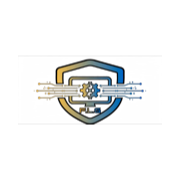
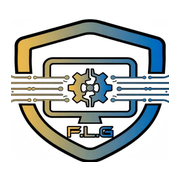
app

diff --git a/src/App.tsx b/src/App.tsx
@@ -18,6 +18,7 @@ import {
   Settings2,
   Shield,
   SignalLow,
+  Smartphone,
   Timer,
   Wifi,
   X,
@@ -136,7 +137,13 @@ const navItems: NavItem[] = [
 
 const App = () => {
   const launchedStandalone = isStandaloneMode();
-  const isMobileDevice = /Android|iPhone|iPad|iPod|Windows Phone/i.test(navigator.userAgent);
+  const ua = window.navigator.userAgent;
+  const isMobileDevice = /Android|iPhone|iPad|iPod|Windows Phone/i.test(ua);
+  const isIos =
+    /iPhone|iPad|iPod/i.test(ua) || (navigator.platform === 'MacIntel' && navigator.maxTouchPoints > 1);
+  const isFirefox = /Firefox|FxiOS/i.test(ua);
+  const isMacSafari =
+    /Macintosh/i.test(ua) && /Safari/i.test(ua) && !/Chrome|Chromium|Edg|OPR|Firefox/i.test(ua);
   const [showLanding, setShowLanding] = useState(!launchedStandalone);
   const [loading, setLoading] = useState(launchedStandalone);
   const [loadingStep, setLoadingStep] = useState(0);
@@ -156,6 +163,7 @@ const App = () => {
   const [installed, setInstalled] = useState(false);
   const [online, setOnline] = useState(navigator.onLine);
   const [standalone, setStandalone] = useState(isStandaloneMode);
+  const [installGuideOpen, setInstallGuideOpen] = useState(false);
   const [aboutOpen, setAboutOpen] = useState(false);
   const [authOpen, setAuthOpen] = useState(false);
 
@@ -285,31 +293,24 @@ const App = () => {
   }, [launchedStandalone]);
 
   const installApp = async () => {
-    if (standalone || installed) {
-      setToast(
-        'FIBERLINKGUARD is already installed on this device — open it from your apps or Start menu.'
-      );
+    if (standalone) {
+      setToast('FIBERLINKGUARD is already running as the installed app.');
       return;
     }
     if (!installPrompt) {
-      setToast(
-        'Your browser controls install. Click the install icon in the address bar, or open the menu and choose Install app.'
-      );
+      setInstallGuideOpen(true);
       return;
     }
     try {
       await installPrompt.prompt();
       const choice = await installPrompt.userChoice;
       if (choice.outcome === 'accepted') {
-        setInstalled(true);
-        setToast('Installation accepted. FIBERLINKGUARD is installed.');
+        setToast('Installing FIBERLINKGUARD — the app icon will appear on your device.');
       } else {
-        setToast('Installation cancelled; you can install FIBERLINKGUARD later.');
+        setToast('Installation cancelled; you can install FIBERLINKGUARD any time.');
       }
     } catch {
-      setToast(
-        'Your browser controls install. Click the install icon in the address bar, or open the menu and choose Install app.'
-      );
+      setInstallGuideOpen(true);
       return;
     } finally {
       setInstallPrompt(null);
@@ -377,6 +378,104 @@ const App = () => {
         </div>
   ) : null;
 
+  const installSteps = isIos ? (
+    <div className="install-steps">
+      <p>
+        <strong>On iPhone or iPad — use Safari</strong>
+      </p>
+      <ol>
+        <li>Open this link in Safari.</li>
+        <li>
+          Tap the <strong>Share</strong> button.
+        </li>
+        <li>
+          Choose <strong>Add to Home Screen</strong>.
+        </li>
+        <li>
+          Turn on <strong>Open as Web App</strong> and tap <strong>Add</strong>.
+        </li>
+      </ol>
+    </div>
+  ) : isMacSafari ? (
+    <div className="install-steps">
+      <p>
+        <strong>On this Mac — use Safari</strong>
+      </p>
+      <ol>
+        <li>Open this link in Safari.</li>
+        <li>
+          From the menu bar choose <strong>File → Add to Dock</strong>.
+        </li>
+        <li>
+          Click <strong>Add</strong> — FIBERLINKGUARD appears in Launchpad.
+        </li>
+      </ol>
+    </div>
+  ) : isFirefox ? (
+    <div className="install-steps">
+      <p>
+        <strong>Firefox cannot install web apps as apps.</strong>
+      </p>
+      <ol>
+        <li>Open this link in Chrome or Edge (Safari on a Mac).</li>
+        <li>
+          Use that browser&apos;s <strong>Install</strong> option.
+        </li>
+      </ol>
+    </div>
+  ) : (
+    <div className="install-steps">
+      <p>
+        <strong>In Chrome or Edge</strong>
+      </p>
+      <ol>
+        <li>
+          Open this link in <strong>Chrome</strong> or <strong>Edge</strong>.
+        </li>
+        <li>
+          Click the <strong>install icon</strong> in the address bar, or open the{' '}
+          <strong>⋮ / ⋯ menu</strong>.
+        </li>
+        <li>
+          Choose <strong>Install app</strong> and confirm.
+        </li>
+      </ol>
+    </div>
+  );
+
+  const installGuideEl = installGuideOpen ? (
+    <div
+      className="install-guide-backdrop"
+      role="presentation"
+      onClick={() => setInstallGuideOpen(false)}
+    >
+      <section
+        className="install-guide-dialog"
+        role="dialog"
+        aria-modal="true"
+        aria-labelledby="install-guide-title"
+        onClick={(e) => e.stopPropagation()}
+      >
+        <button
+          className="install-guide-close icon-button"
+          aria-label="Close install instructions"
+          onClick={() => setInstallGuideOpen(false)}
+        >
+          <X size={18} />
+        </button>
+        <div className="install-guide-symbol">
+          <Smartphone size={25} />
+        </div>
+        <p className="eyebrow">FIBERLINKGUARD / INSTALLATION</p>
+        <h2 id="install-guide-title">Install FIBERLINKGUARD</h2>
+        {installSteps}
+        <button className="primary-button full-button" onClick={() => setInstallGuideOpen(false)}>
+          Got it
+        </button>
+      </section>
+    </div>
+  ) : null;
+
   if (showLanding) {
     return (
       <>
@@ -387,6 +486,7 @@ const App = () => {
           standalone={standalone}
         />
         {toastEl}
+        {installGuideEl}
       </>
     );
   }
@@ -487,10 +587,10 @@ const App = () => {
               <span className={online ? 'online-dot' : 'offline-dot'} />
               <span>{online ? 'Online ready' : 'Offline mode'}</span>
             </div>
-            {!(installed || standalone) && (
+            {!standalone && (
               <button className="install-app-button" onClick={installApp}>
                 <Download size={15} />
-                <span>{installPrompt ? 'Install app' : 'Install options'}</span>
+                <span>{installPrompt ? 'Install app' : 'Install'}</span>
               </button>
             )}
             <button
@@ -610,6 +710,8 @@ const App = () => {
           </button>
         </div>
       )}
+
+      {installGuideEl}
 
       {aboutOpen && (
         <div className="install-guide-backdrop" role="presentation" onClick={() => setAboutOpen(false)}>

diff --git a/src/pages/LandingPage.tsx b/src/pages/LandingPage.tsx
@@ -1,4 +1,4 @@
-import { ArrowDownToLine, Check, Download, WifiOff, Zap } from 'lucide-react';
+import { ArrowDownToLine, Download, WifiOff, Zap } from 'lucide-react';
 import Logo from '../components/Logo';
 
 type Props = {
@@ -9,8 +9,7 @@ type Props = {
 };
 
 export const LandingPage = ({ onEnterApp, onInstall, installed, standalone }: Props) => {
-  const isStandalone = installed || standalone;
-  const alreadyInstalled = installed && !standalone;
+  const showDownload = !standalone;
 
   const handleInstall = async () => {
     await onInstall();
@@ -33,11 +32,13 @@ export const LandingPage = ({ onEnterApp, onInstall, installed, standalone }: Pr
           </div>
         </div>
         <div className="landing-actions">
-          <button className="landing-secondary-btn" onClick={handleEnter}>Open App</button>
-          {!isStandalone && (
+          <button className="landing-secondary-btn" onClick={handleEnter}>
+            Open App
+          </button>
+          {showDownload && (
             <button className="landing-primary-btn" onClick={handleInstall}>
-              {alreadyInstalled ? <Check size={18} /> : <Download size={18} />}
-              {alreadyInstalled ? 'Already installed' : 'Download App'}
+              <Download size={18} />
+              Download App
             </button>
           )}
         </div>
@@ -56,13 +57,15 @@ export const LandingPage = ({ onEnterApp, onInstall, installed, standalone }: Pr
               Fix Fibre Faster.
             </h1>
             <p className="landing-subtitle">
-              FIBERLINKGUARD is a Progressive Web App built for FTTH field teams. Manage network inventory, provision connections, test with smart tools, and resolve faults faster — all in one app.
+              FIBERLINKGUARD is a Progressive Web App built for FTTH field teams. Manage network
+              inventory, provision connections, test with smart tools, and resolve faults faster —
+              all in one app.
             </p>
             <div className="landing-cta-group">
-              {!isStandalone && (
+              {showDownload && (
                 <button className="landing-primary-btn large" onClick={handleInstall}>
-                  {alreadyInstalled ? <Check size={20} /> : <ArrowDownToLine size={20} />}
-                  {alreadyInstalled ? 'Already installed on this device' : 'Download for your device'}
+                  <ArrowDownToLine size={20} />
+                  Download for your device
                 </button>
               )}
               <button className="landing-secondary-btn large" onClick={handleEnter}>
@@ -70,10 +73,10 @@ export const LandingPage = ({ onEnterApp, onInstall, installed, standalone }: Pr
                 Open full app
               </button>
             </div>
-            {alreadyInstalled && (
+            {installed && (
               <p className="landing-install-hint">
                 FIBERLINKGUARD is already installed on this device. Open it from your apps or Start
-                menu — you don’t need to download it again.
+                menu — no need to download it again.
               </p>
             )}
             <div className="landing-benefits">
@@ -87,7 +90,7 @@ export const LandingPage = ({ onEnterApp, onInstall, installed, standalone }: Pr
               </div>
               <div className="landing-benefit">
                 <Download size={16} />
-                <span>Installable on all phones & browsers</span>
+                <span>Installable on phones, tablets & desktop</span>
               </div>
             </div>
           </div>
@@ -126,9 +129,9 @@ export const LandingPage = ({ onEnterApp, onInstall, installed, standalone }: Pr
         <section className="landing-install">
           <h2 className="landing-section-title">Works on every device</h2>
           <p className="landing-install-note">
-            One download for the whole team — FIBERLINKGUARD runs on iPhone and iPad (Safari),
-            Android phones (Chrome), and laptops and desktops on Chrome or Edge for Windows, macOS
-            and Linux.
+            One app for the whole team — FIBERLINKGUARD installs on iPhone and iPad (Safari),
+            Android phones and tablets (Chrome), and laptops and desktops on Chrome or Edge for
+            Windows, macOS and Linux.
           </p>
           <div className="landing-platforms">
             <span>iPhone</span>

diff --git a/vite.config.ts b/vite.config.ts
@@ -9,34 +9,69 @@ export default defineConfig({
     tailwindcss(),
     VitePWA({
       registerType: 'autoUpdate',
+      includeAssets: ['favicon-32.png', 'favicon-48.png', 'apple-touch-icon.png'],
       devOptions: {
         enabled: true,
       },
       workbox: {
-        globPatterns: ['**/*.{js,css,html,ico,png,svg,webmanifest,woff2}'],
+        globPatterns: ['**/*.{js,css,html,ico,png,svg,webmanifest,woff,woff2}'],
         navigateFallback: '/index.html',
         cleanupOutdatedCaches: true,
       },
-      includeAssets: ['favicon-32.png', 'apple-touch-icon.png'],
       manifest: {
         id: '/',
-        name: 'FIBERLINKGUARD',
+        name: 'FIBERLINKGUARD — FTTH Operations Platform',
         short_name: 'FIBERLINKGUARD',
-        description: 'FTTH fibre management, testing and operations platform',
+        description:
+          'FTTH fibre management, testing and operations platform. Power checking, fault isolation, Bluetooth smart testing, inventory, provisioning and live monitoring — works offline.',
+        start_url: '/',
+        scope: '/',
+        display: 'standalone',
+        display_override: ['standalone', 'minimal-ui'],
+        orientation: 'any',
+        lang: 'en',
+        dir: 'ltr',
+        categories: ['utilities', 'productivity', 'business'],
         theme_color: '#0a0f1a',
         background_color: '#0a0f1a',
-        display: 'standalone',
-        start_url: '/',
         prefer_related_applications: false,
         icons: [
-          { src: '/pwa-192.png', sizes: '192x192', type: 'image/png', purpose: 'any' },
-          { src: '/pwa-512.png', sizes: '512x512', type: 'image/png', purpose: 'any' },
-          { src: '/maskable-512.png', sizes: '512x512', type: 'image/png', purpose: 'maskable' }
+          {
+            src: '/fiberlinkguard-192.png',
+            sizes: '192x192',
+            type: 'image/png',
+            purpose: 'any',
+          },
+          {
+            src: '/fiberlinkguard-512.png',
+            sizes: '512x512',
+            type: 'image/png',
+            purpose: 'any',
+          },
+          {
+            src: '/fiberlinkguard-maskable-512.png',
+            sizes: '512x512',
+            type: 'image/png',
+            purpose: 'maskable',
+          },
         ],
-        related_applications: [
-          { platform: 'webapp', url: '/manifest.webmanifest', id: '/' }
-        ]
-      }
-    })
-  ]
+        screenshots: [
+          {
+            src: '/screenshot-wide.png',
+            sizes: '1280x720',
+            type: 'image/png',
+            form_factor: 'wide',
+            label: 'FIBERLINKGUARD power check on desktop',
+          },
+          {
+            src: '/screenshot-narrow.png',
+            sizes: '750x1334',
+            type: 'image/png',
+            label: 'FIBERLINKGUARD power check on mobile',
+          },
+        ],
+        related_applications: [{ platform: 'webapp', url: '/manifest.webmanifest', id: '/' }],
+      },
+    }),
+  ],
 });

diff --git a/index.html b/index.html
@@ -4,10 +4,13 @@
     <meta charset="UTF-8" />
     <meta name="viewport" content="width=device-width, initial-scale=1.0, viewport-fit=cover" />
     <meta name="theme-color" content="#0a0f1a" />
+    <meta name="mobile-web-app-capable" content="yes" />
     <meta name="apple-mobile-web-app-capable" content="yes" />
+    <meta name="apple-mobile-web-app-title" content="FIBERLINKGUARD" />
     <meta name="apple-mobile-web-app-status-bar-style" content="black-translucent" />
     <link rel="icon" type="image/png" sizes="32x32" href="/favicon-32.png" />
-    <link rel="apple-touch-icon" href="/apple-touch-icon.png" />
+    <link rel="icon" type="image/png" sizes="48x48" href="/favicon-48.png" />
+    <link rel="apple-touch-icon" sizes="180x180" href="/apple-touch-icon.png" />
     <meta name="description" content="FIBERLINKGUARD — FTTH fibre management, testing and operations." />
     <title>FIBERLINKGUARD — FTTH Platform</title>
   </head>

diff --git a/src/components/Logo.tsx b/src/components/Logo.tsx
@@ -1,4 +1,4 @@
-import logoImage from '../assets/flg-logo.jpeg';
+import logoImage from '../assets/flg-logo.png';
 
 type LogoProps = {
   size?: 'xs' | 'sm' | 'md' | 'lg' | 'xl';
